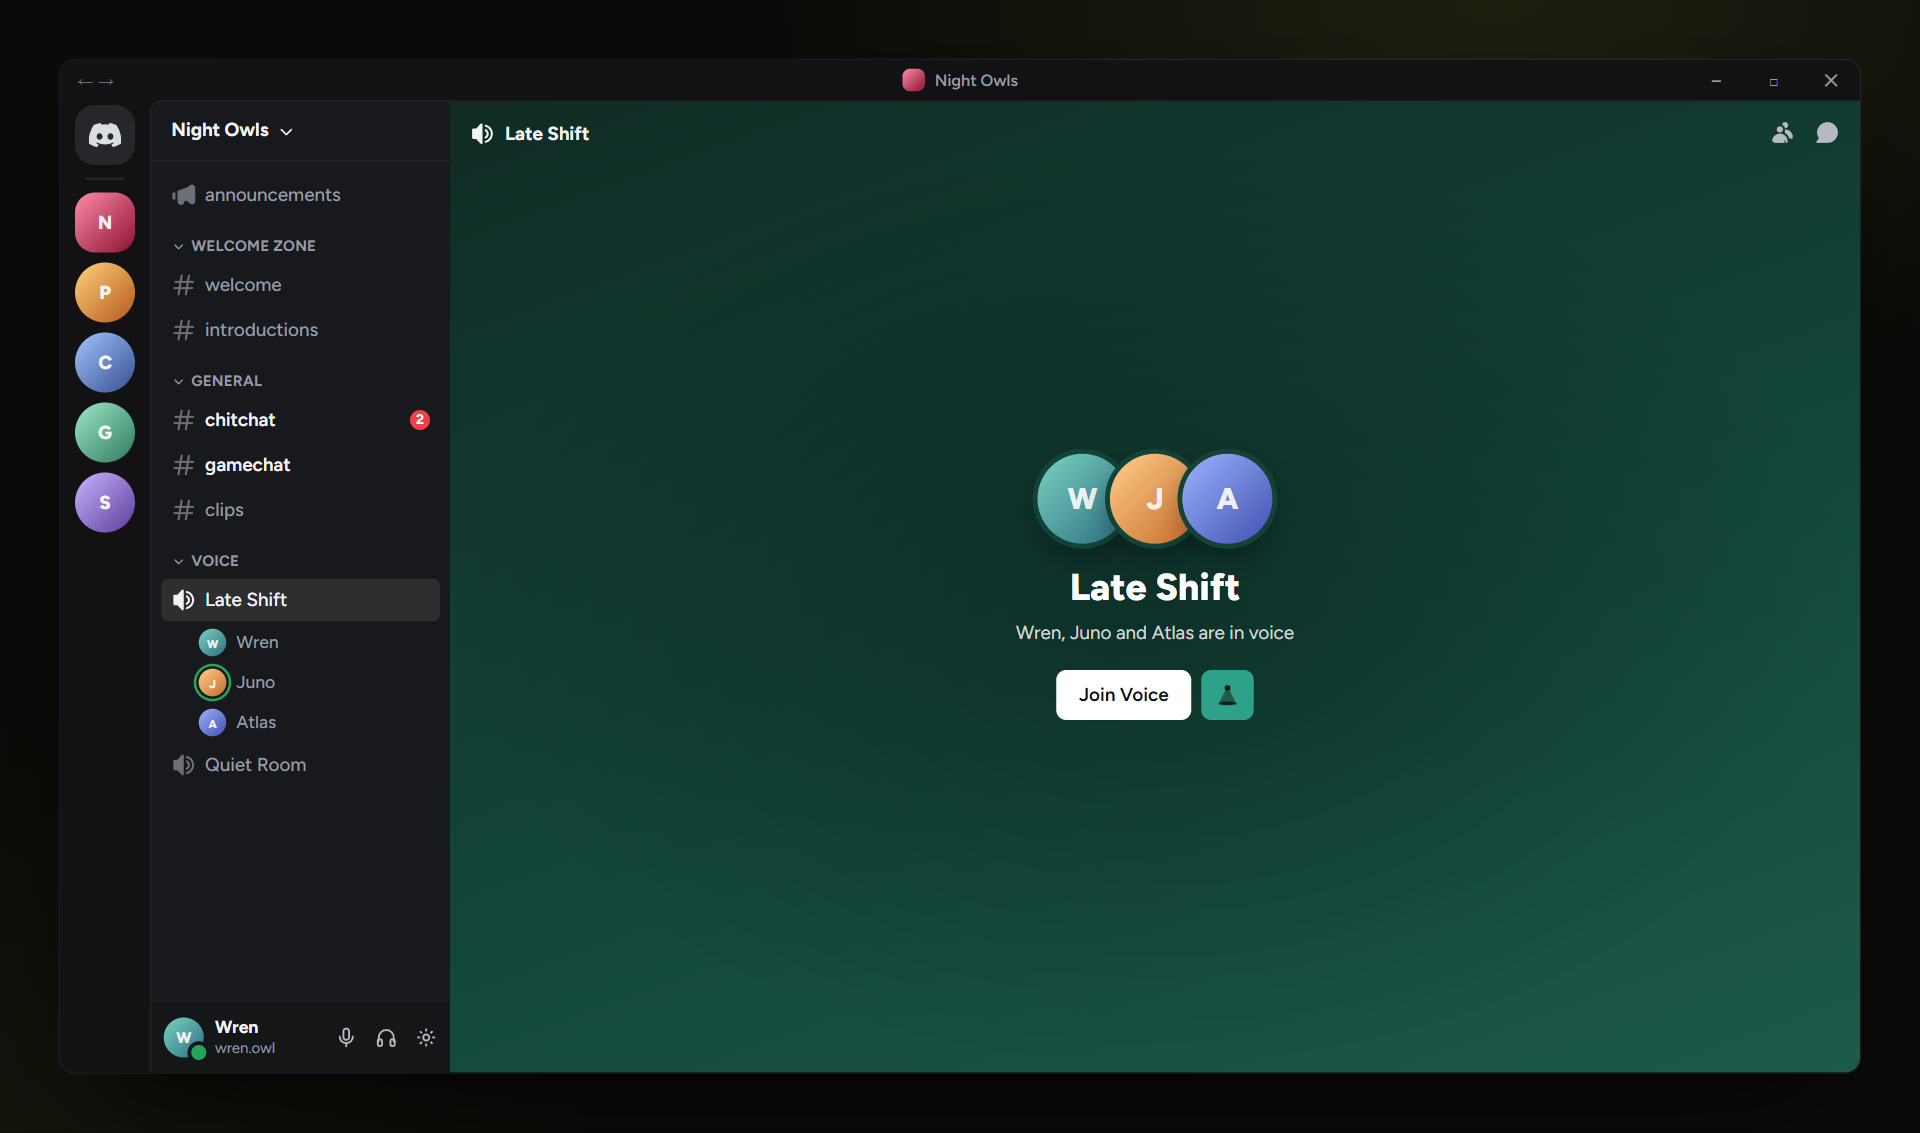
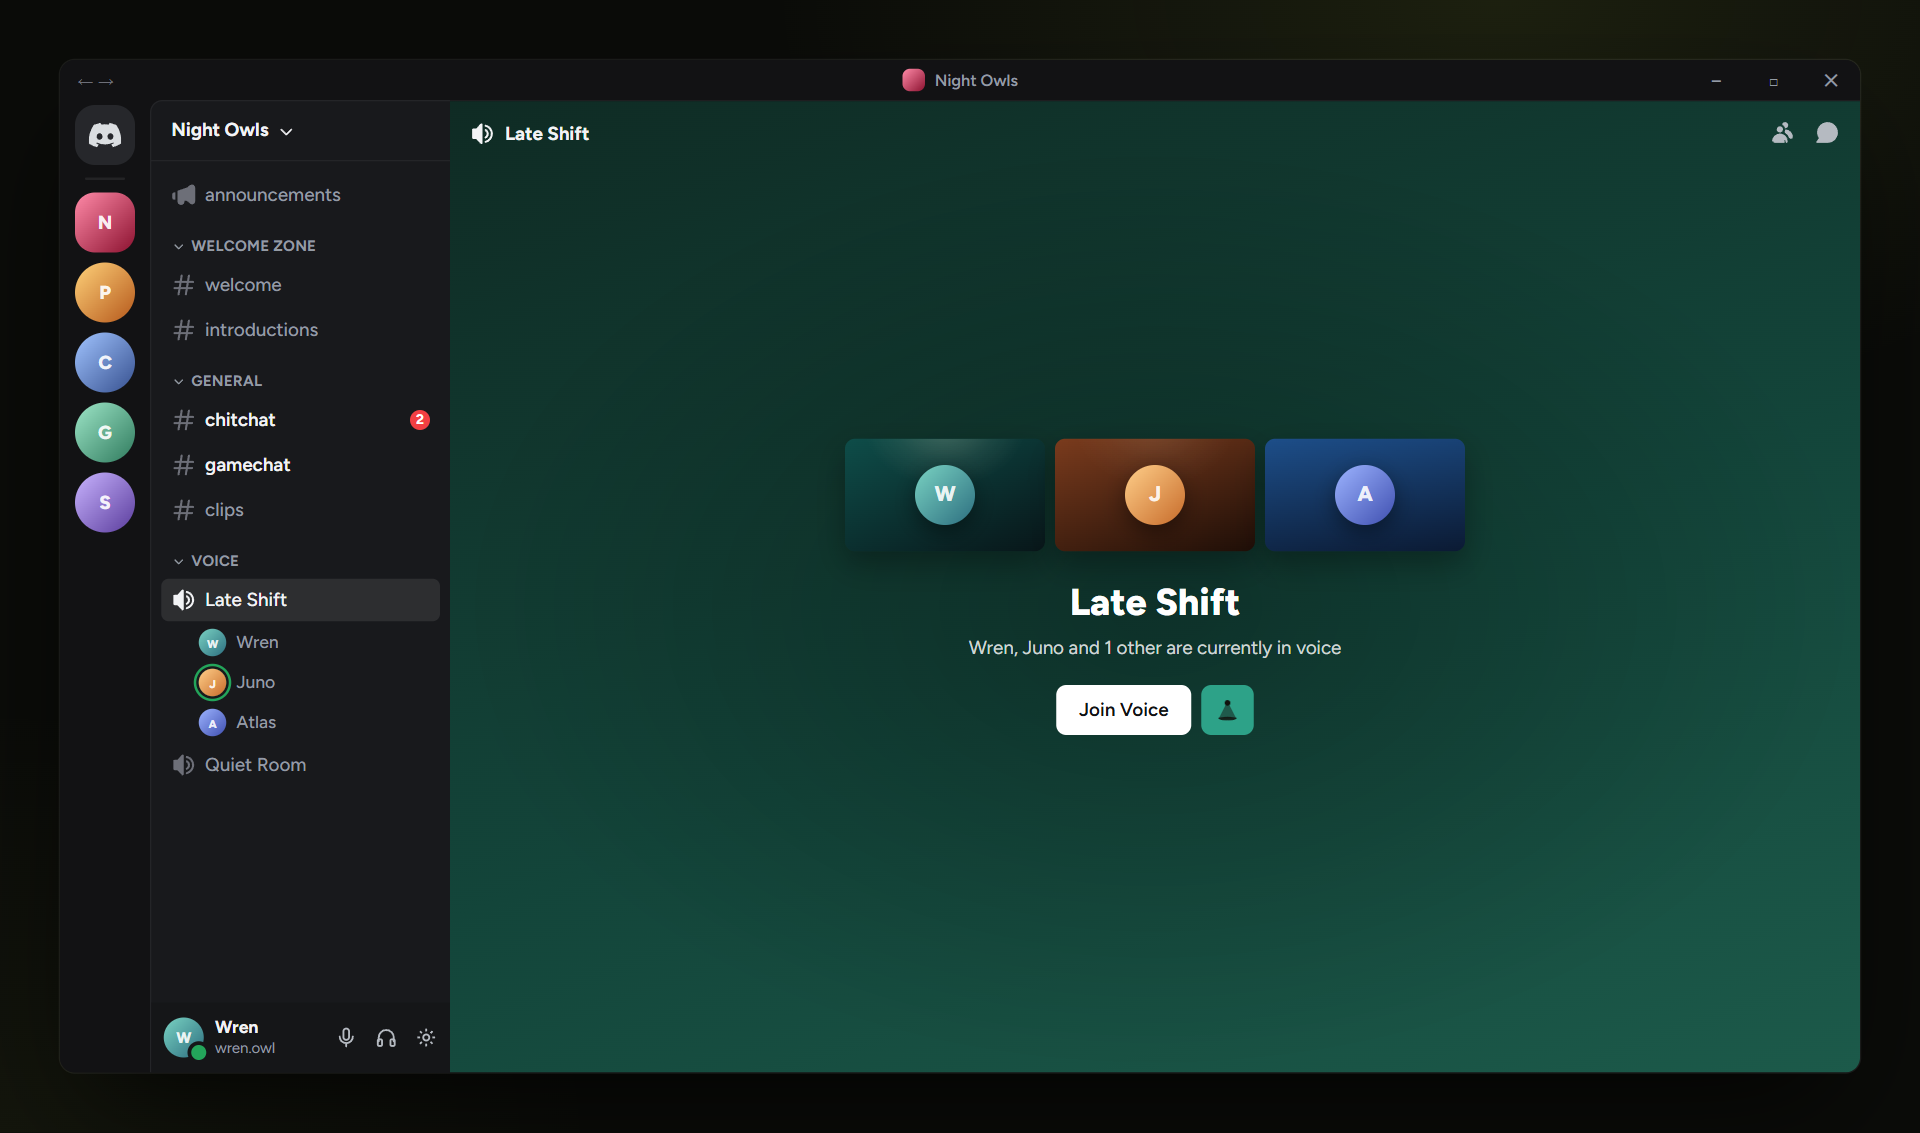
Pre-call showcase matches Discord's own screen

Changed region(s): [[0.4375, 0.3707, 0.7812, 0.6487]]

diff --git a/README.md b/README.md
@@ -148,7 +148,7 @@ switched off in the Chat tab.
 
 ## The pre-call screen
 
-<img src="assets/showcase-precall.png" alt="The screen before joining a voice channel, on a deep green Own theme, with three avatars, the channel name, Join Voice and a matching green Limelight button beside it" width="100%">
+<img src="assets/showcase-precall.png" alt="The screen before joining a voice channel, on a deep green Own theme, with three preview tiles in each person's theme, the channel name, Join Voice and a matching green Limelight button beside it" width="100%">
 
 Before you join, the pre-call screen can stay as **Discord** draws it, take the
 **Follow grid** stage, or use a background of its **Own**. The Limelight button beside
